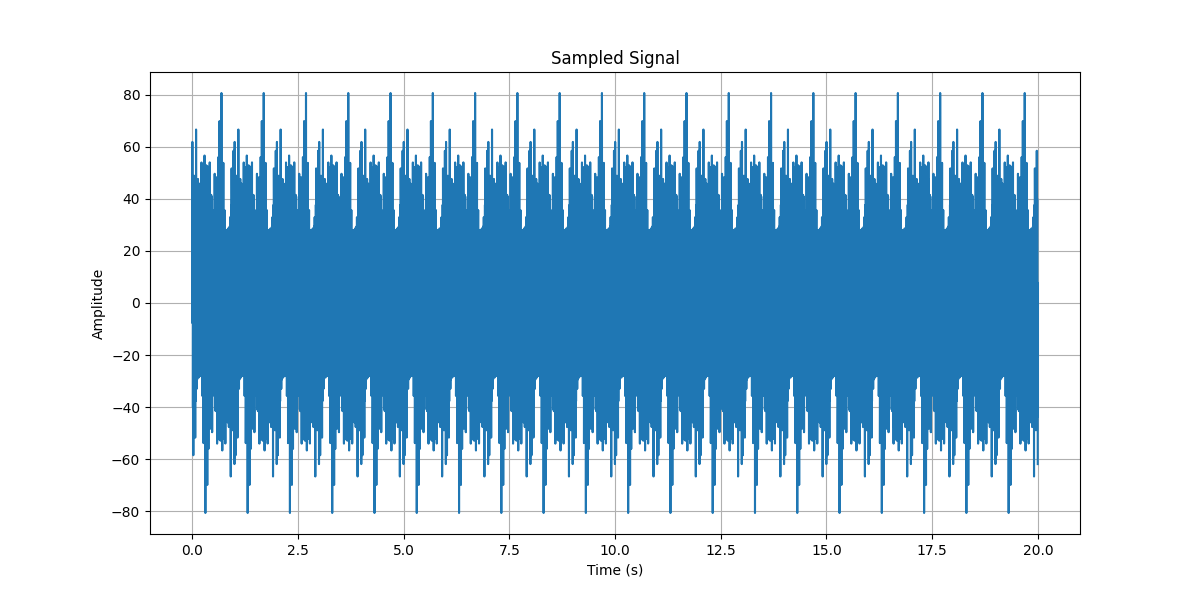
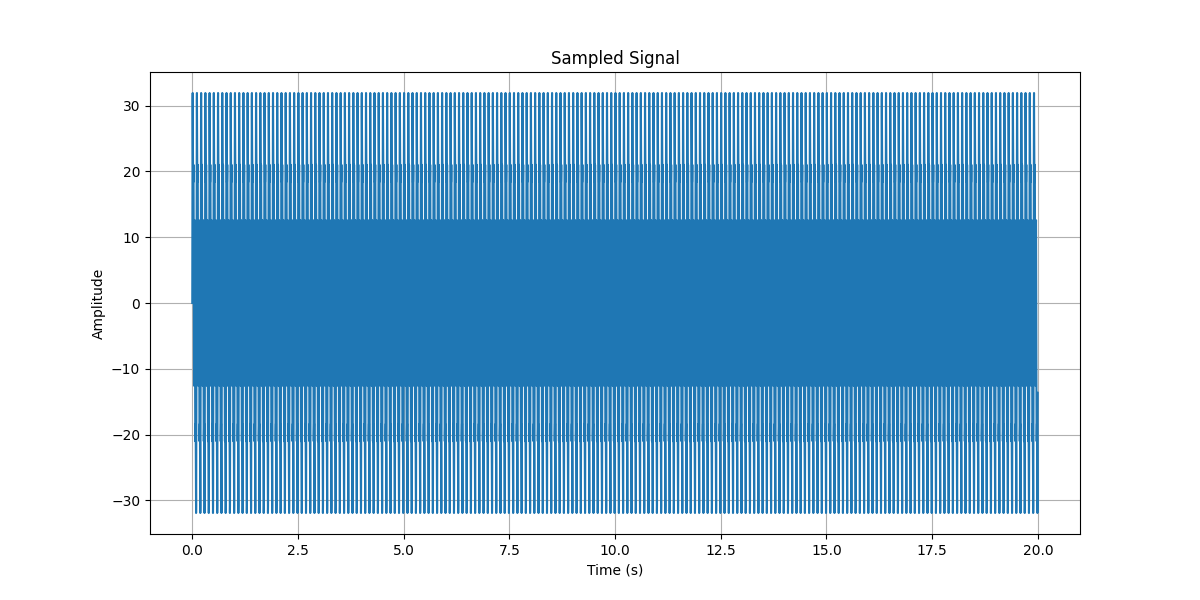
bbf pipe + tests

diff --git a/asa/bbf/element.py b/asa/bbf/element.py
@@ -1,8 +1,12 @@
 
 import numpy as np
 from numpy.typing import NDArray
-
 from asa.parent import ProcessingElement
+from signals.parent import Window
+from typing import List, Tuple
+from scipy.signal import butter, filtfilt
+import os
+import matplotlib.pyplot as plt
 
 
 class BBF(ProcessingElement):
@@ -11,11 +15,110 @@ class BBF(ProcessingElement):
     """
     name = "BBF"
 
-    def __init__(self, clk: int = 0) -> None:
-        super().__init__(self.name, clk)
+    def __init__(self, window: Window, berger_bands: List[Tuple[int, int]],
+                 clk: int = 0, save_vizualisation: bool = False) -> None:
+        super().__init__(name = self.name,
+                         clk = clk,
+                         save_vizualisation = save_vizualisation)
+        
+        self.sample_freq = window.fs
+        self.berger_bands = berger_bands
 
-    def run(self):
-        pass
+    # necessary method to run the processing element
+    def run(self) -> NDArray[np.float32]:
+        # load input data
+        input_data = self.load_inputs()
+        # validate dimensions
+        self.dimension_validate(input=input_data)
+        # compute
+        output = self.compute(input=input_data)
+        # vizualise
+        if self.save_vizualisation:
+            self.vizualise()
+        # return data
+        return output
+    
+    # necessary method to load input data from input processing elements
+    def load_inputs(self) -> NDArray[np.float32]:
+        input_PEs = self.inputs
+        # concatenate input data from input PEs
+        input_data = []
+        for PE in input_PEs:
+            input_data.append(PE.run())
+        # concatenate input data
+        input_data = np.concatenate(input_data, axis=0)
+        return input_data
+    
+    # necessary method to validate the dimensions of the input data
+    def dimension_validate(self, input: NDArray[np.float32]) -> None:
+        self.input_dimension = input.shape
+        self.channels = input.shape[1]
+        self.num_samples = input.shape[0]
+    
+    # necessary method to calculate processing element's computation
+    def compute(self, input: NDArray[np.float32]) -> NDArray[np.float32]:
 
+        # helper functions
+        def butter_bandpass(lowcut, highcut, fs, order=5):
+            # this function returns the coefficients of the bandpass filter
+            nyquist = 0.5 * fs
+            low = lowcut / nyquist
+            high = highcut / nyquist
+            b, a = butter(order, [low, high], btype='band')
+            return b, a
+
+        def butter_bandpass_filter(data, lowcut, highcut, fs, order=5):
+            # this function applies the bandpass filter to the input data
+            # a, b are the coefficients of the bandpass filter
+            b, a = butter_bandpass(lowcut, highcut, fs, order=order)
+            y = filtfilt(b, a, data)
+            return y
+        
+        bbf_power_features = []
+
+        for signal in input:
+            # Apply the bandpass filters and calculate power
+            power_bands = []
+        
+            for lowcut, highcut in self.berger_bands:
+                filtered_signal = butter_bandpass_filter(signal, lowcut, highcut, self.sample_freq, order=5)
+
+                # normalize the filtered signal
+                # filtered_signal = filtered_signal * 0.25
+
+                power = np.sum( np.square(filtered_signal) )
+
+                if np.isinf(power) or np.isnan(power): # idk why this happens yet
+                    num_inf_nan = np.count_nonzero(np.isnan(power) | np.isinf(power))
+
+                if np.isinf(power) or np.isnan(power): # this is a fix idk why this happens
+                    power = 0
+                power_bands.append(power)
+
+                #print(f"Power in band {lowcut}-{highcut} Hz: {np.mean(power)}")
+            bbf_power_features.append(power_bands)
+
+        bbf_power_features = np.array(bbf_power_features)
+        self.bbf_power_features = bbf_power_features
+        return bbf_power_features
+        
+    # necessary method to validate the dimensions of the input data
+    def vizualise(self) -> None:
+        # Ensure the directory exists
+        output_dir = 'plots'
+        os.makedirs(output_dir, exist_ok=True)
+            
+        # displaying power bands of first signal
+        plt.figure(figsize=(12, 6))
+        plt.bar(range(len(self.berger_bands)), self.bbf_power_features[0])
+        plt.xticks(ticks=range(len(self.berger_bands)), labels=[str(band) for band in self.berger_bands])
+        plt.title('Power in Berger Bands for 1st input channel')
+        plt.xlabel('Band')
+        plt.ylabel('Power')
+        plt.grid()
+        plt.savefig(os.path.join(output_dir, 'bbf_power_in_berger_bands.png'))
+
+    # return way to identify the processing element
     def __repr__(self) -> str:
         return f"{self.name}"
+

diff --git a/asa/bbf/test_element.py b/asa/bbf/test_element.py
@@ -1,9 +1,9 @@
 from pipelines.parent import Pipeline
 from signals.parent import Window
-from asa import FFT, LOADER
+from asa import BBF, LOADER
 
 # define the pipeline to test the fft PE
-class FFT_Pipe(Pipeline):
+class BBF_Pipe(Pipeline):
 
     def __init__(self, 
                  input_window: Window):
@@ -15,23 +15,23 @@ class FFT_Pipe(Pipeline):
         self.loader = LOADER(input=input_window.load_signal(),
                       save_vizualisation=True)
         
-        self.fft = FFT(window=input_window,
+        self.bbf = BBF(window=input_window,
                        berger_bands=[(0.1, 4), (4, 8), (8, 12), (12, 30), (30, 80), (80, 180)],
                        save_vizualisation=True)
        
         # add PEs to list of elements
-        self.add_elements([self.loader, self.fft])
+        self.add_elements([self.loader, self.bbf])
 
         # define relationship between PEs
-        self.add_edge(from_node=self.loader, to_node=self.fft)
+        self.add_edge(from_node=self.loader, to_node=self.bbf)
     
     # run the end node of the pipeline, recursively running all the previous nodes
     def run(self):
-        return self.fft.run()
+        return self.bbf.run()
     
 
 # run the pipeline to test the element
-def test_fft_basic() -> None:
+def test_bbf_basic() -> None:
 
     # input signal window
     input_window = Window(fs=400, 
@@ -42,7 +42,7 @@ def test_fft_basic() -> None:
                                  amplitudes=[20, 15, 10])
 
     # create test pipeline
-    pipeline = FFT_Pipe(input_window=input_window)
+    pipeline = BBF_Pipe(input_window=input_window)
     
     output_features = pipeline.run()
     for element in pipeline.elements:

diff --git a/asa/parent.py b/asa/parent.py
@@ -46,6 +46,10 @@ class ProcessingElement:
     def load_inputs(self):
         raise NotImplementedError("run method not implemented")
     
+    # necessary method to validate the dimensions of the input data
+    def dimension_validate(self):
+        raise NotImplementedError("run method not implemented")
+    
     # necessary method to calculate processing element's computation
     def compute(self):
         raise NotImplementedError("run method not implemented")
@@ -54,3 +58,6 @@ class ProcessingElement:
     def vizualise(self):
         raise NotImplementedError("run method not implemented")
 
+    # return way to identify the processing element
+    def __repr__(self) -> str:
+        return f"{self.name}"

diff --git a/asa/fft/element.py b/asa/fft/element.py
@@ -32,7 +32,7 @@ class FFT(ProcessingElement):
         self.sample_freq = window.fs
         self.berger_bands = berger_bands
     
-    def run(self):
+    def run(self) -> NDArray[np.float32]:
         # load input data
         input_data = self.load_inputs()
         # validate dimensions
@@ -84,8 +84,9 @@ class FFT(ProcessingElement):
             fft_power_features.append(fft_power)
 
         # also save for vizualisation
+        fft_power_features = np.array(fft_power_features)
         self.fft_power_features = fft_power_features
-        self.fft_outputs = fft_outputs
+        self.fft_outputs = np.array(fft_outputs)
 
         return fft_power_features
     

diff --git a/Combined_Simulator/shiao/pipeline.py b/Combined_Simulator/shiao/pipeline.py
@@ -45,8 +45,11 @@ async def test_fft_verilog(dut):
     # generated_signal_amplitudes =  [15, 15, 12, 28, 13]
 
     # good demonstration of fft verilog signal and diff to ground truth.
-    generated_signal_frequencies = [25, 70, 112, 115, 180]
-    generated_signal_amplitudes =  [15, 12, 28, 13, 17]
+    # generated_signal_frequencies = [25, 70, 112, 115, 180]
+    # generated_signal_amplitudes =  [15, 12, 28, 13, 17]
+
+    generated_signal_frequencies = [10, 20, 40]
+    generated_signal_amplitudes =  [20, 15, 10]
 
     sampled_signals = sample_signals(num_channels=num_channels, 
                                      sample_window=sample_window, 

diff --git a/Combined_Simulator/shiao/processing_elements/python_PEs/bbf.py b/Combined_Simulator/shiao/processing_elements/python_PEs/bbf.py
@@ -69,6 +69,8 @@ def bbf_py(sampled_signals, sample_freq, berger_bands, saveGraphs=False):
     
         if (i == 0) and saveGraphs:
             # display power in berger bands
+            print(f" final sig in bbf: {samples[0:10]}")
+            print(f" final power_bands: {power_bands}")
             
             plt.figure(figsize=(12, 6))
             plt.bar(range(len(berger_bands)), power_bands)

diff --git a/asa/README.md b/asa/README.md
@@ -5,3 +5,10 @@
 
 hardware `def run_hdl()` functions somewhere for each PE, use dimension_validate to check dimensions
 
+- implement hardware functions
+- Auto pass/fail test cases on github
+
+- how to define a pipeline and run it
+- how to create new processing elements
+- the window class
+- parent classes
